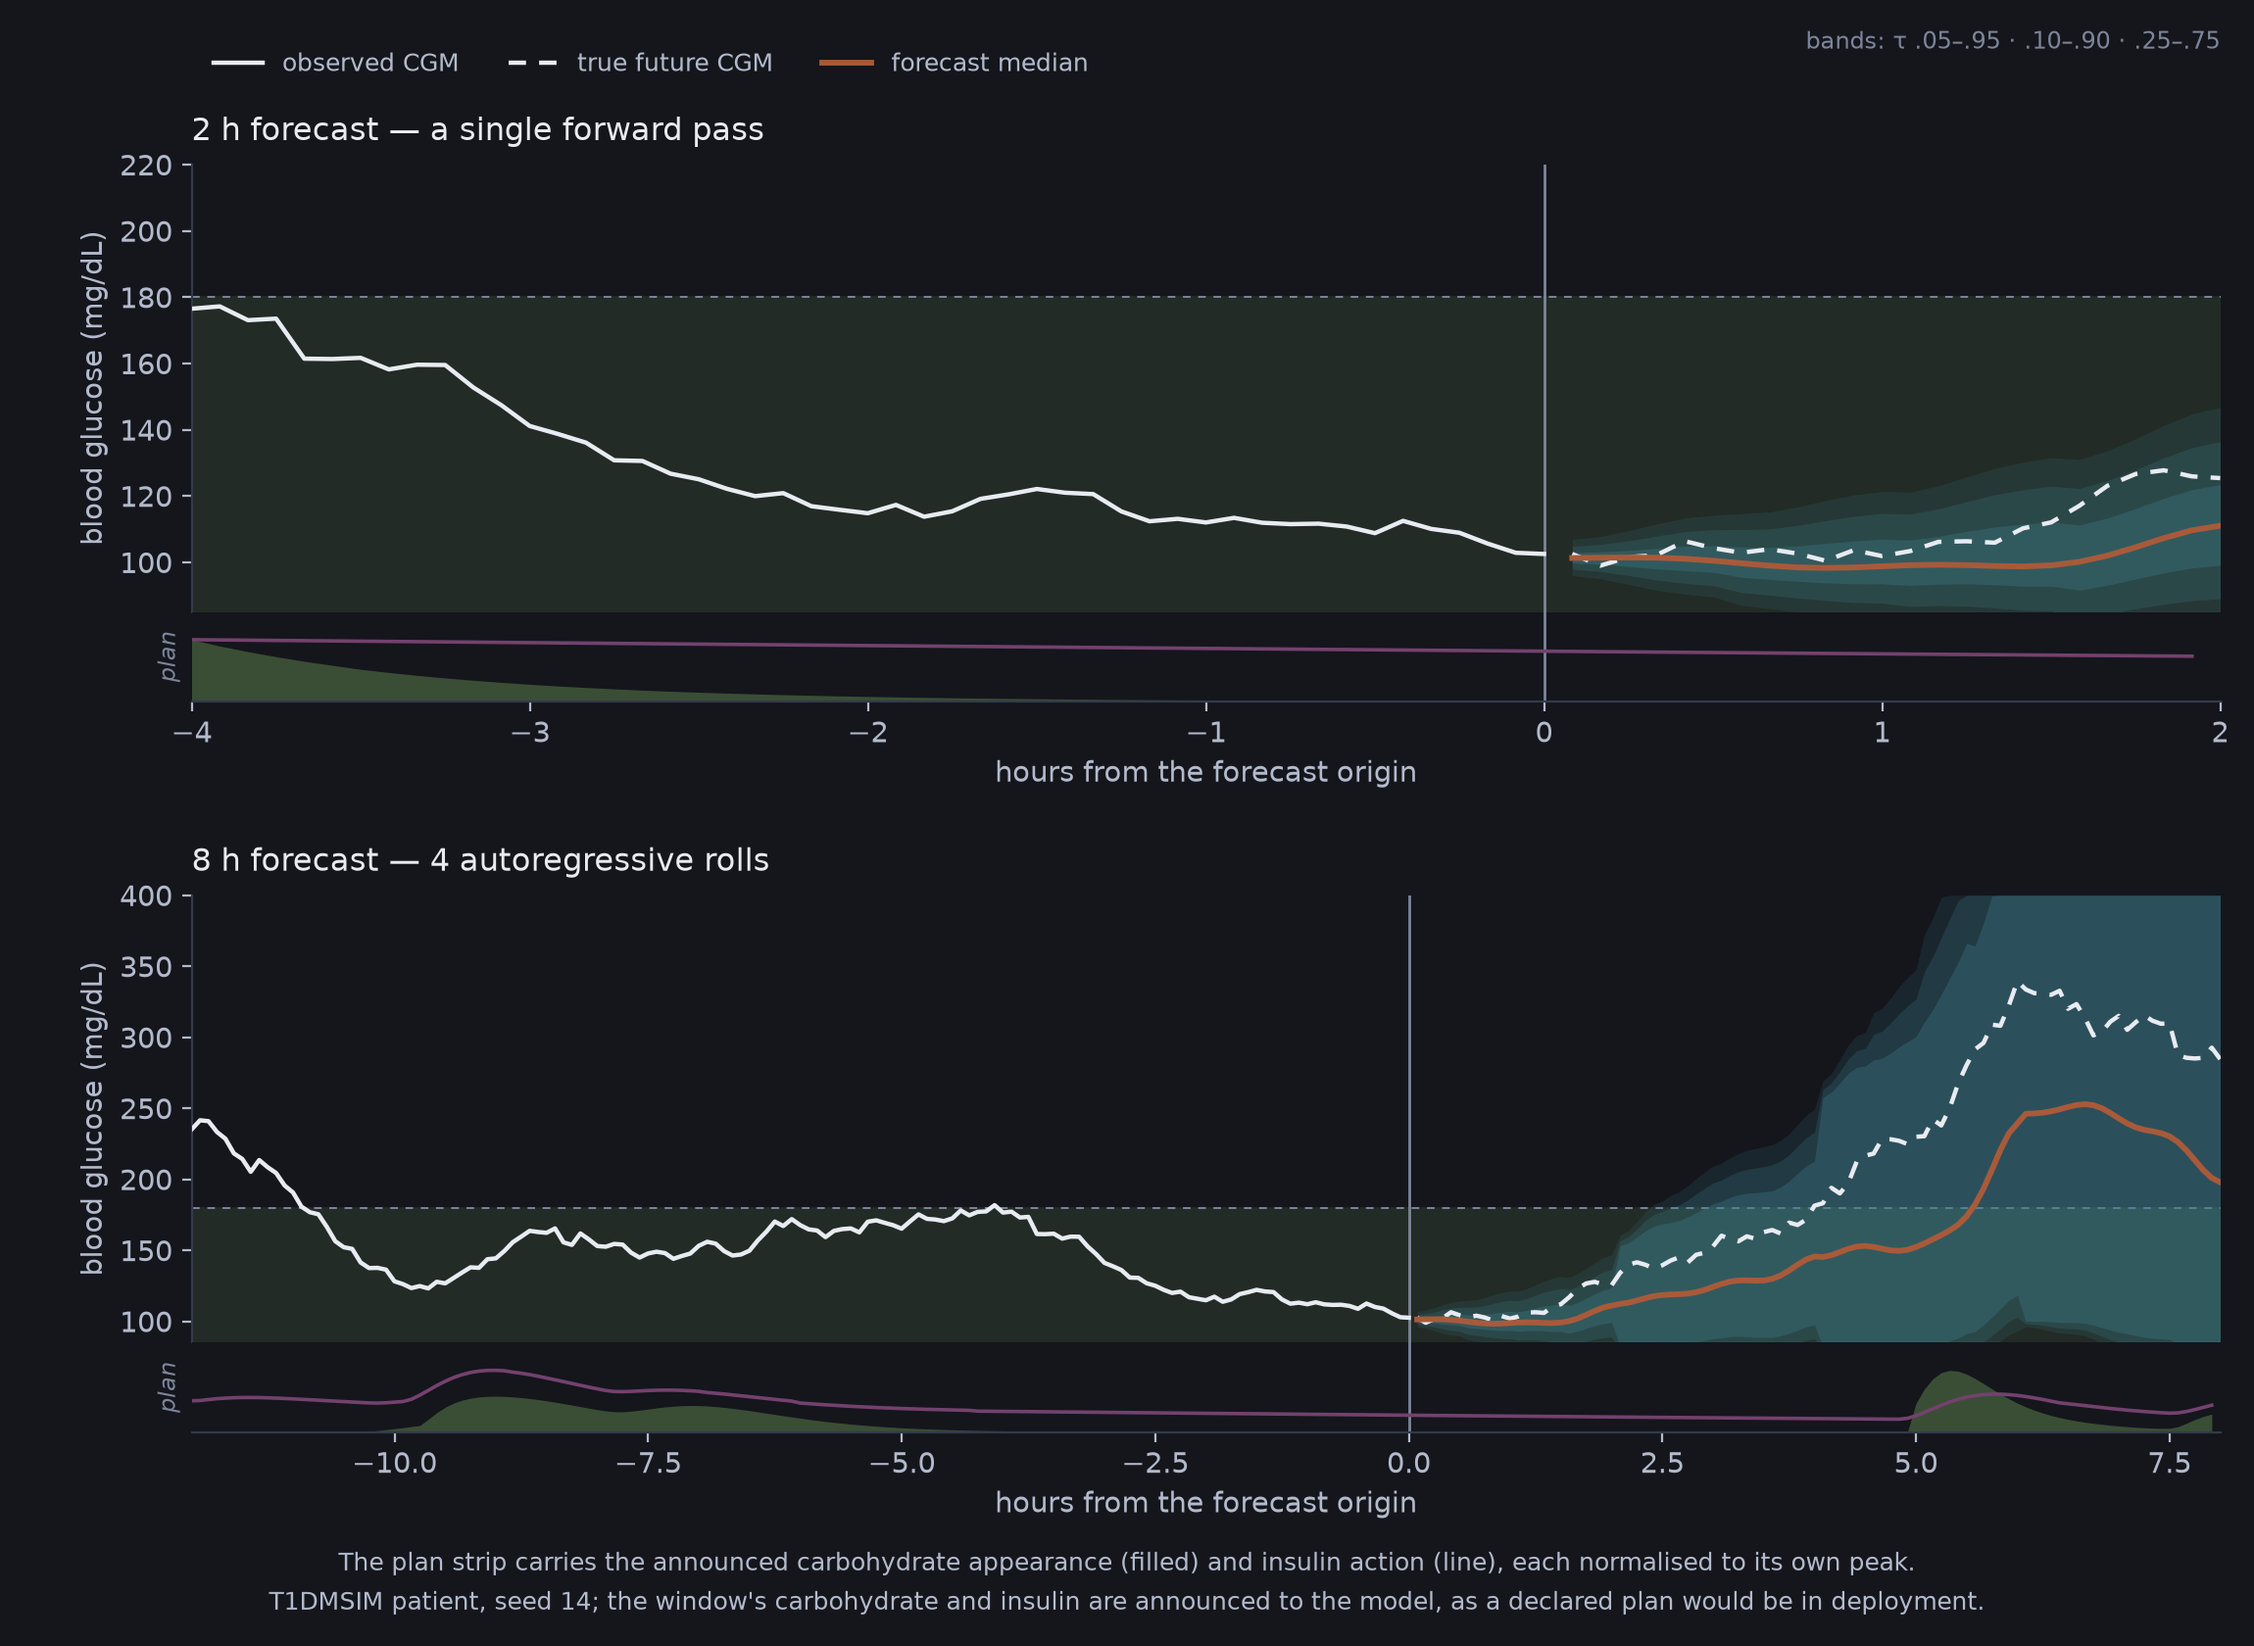
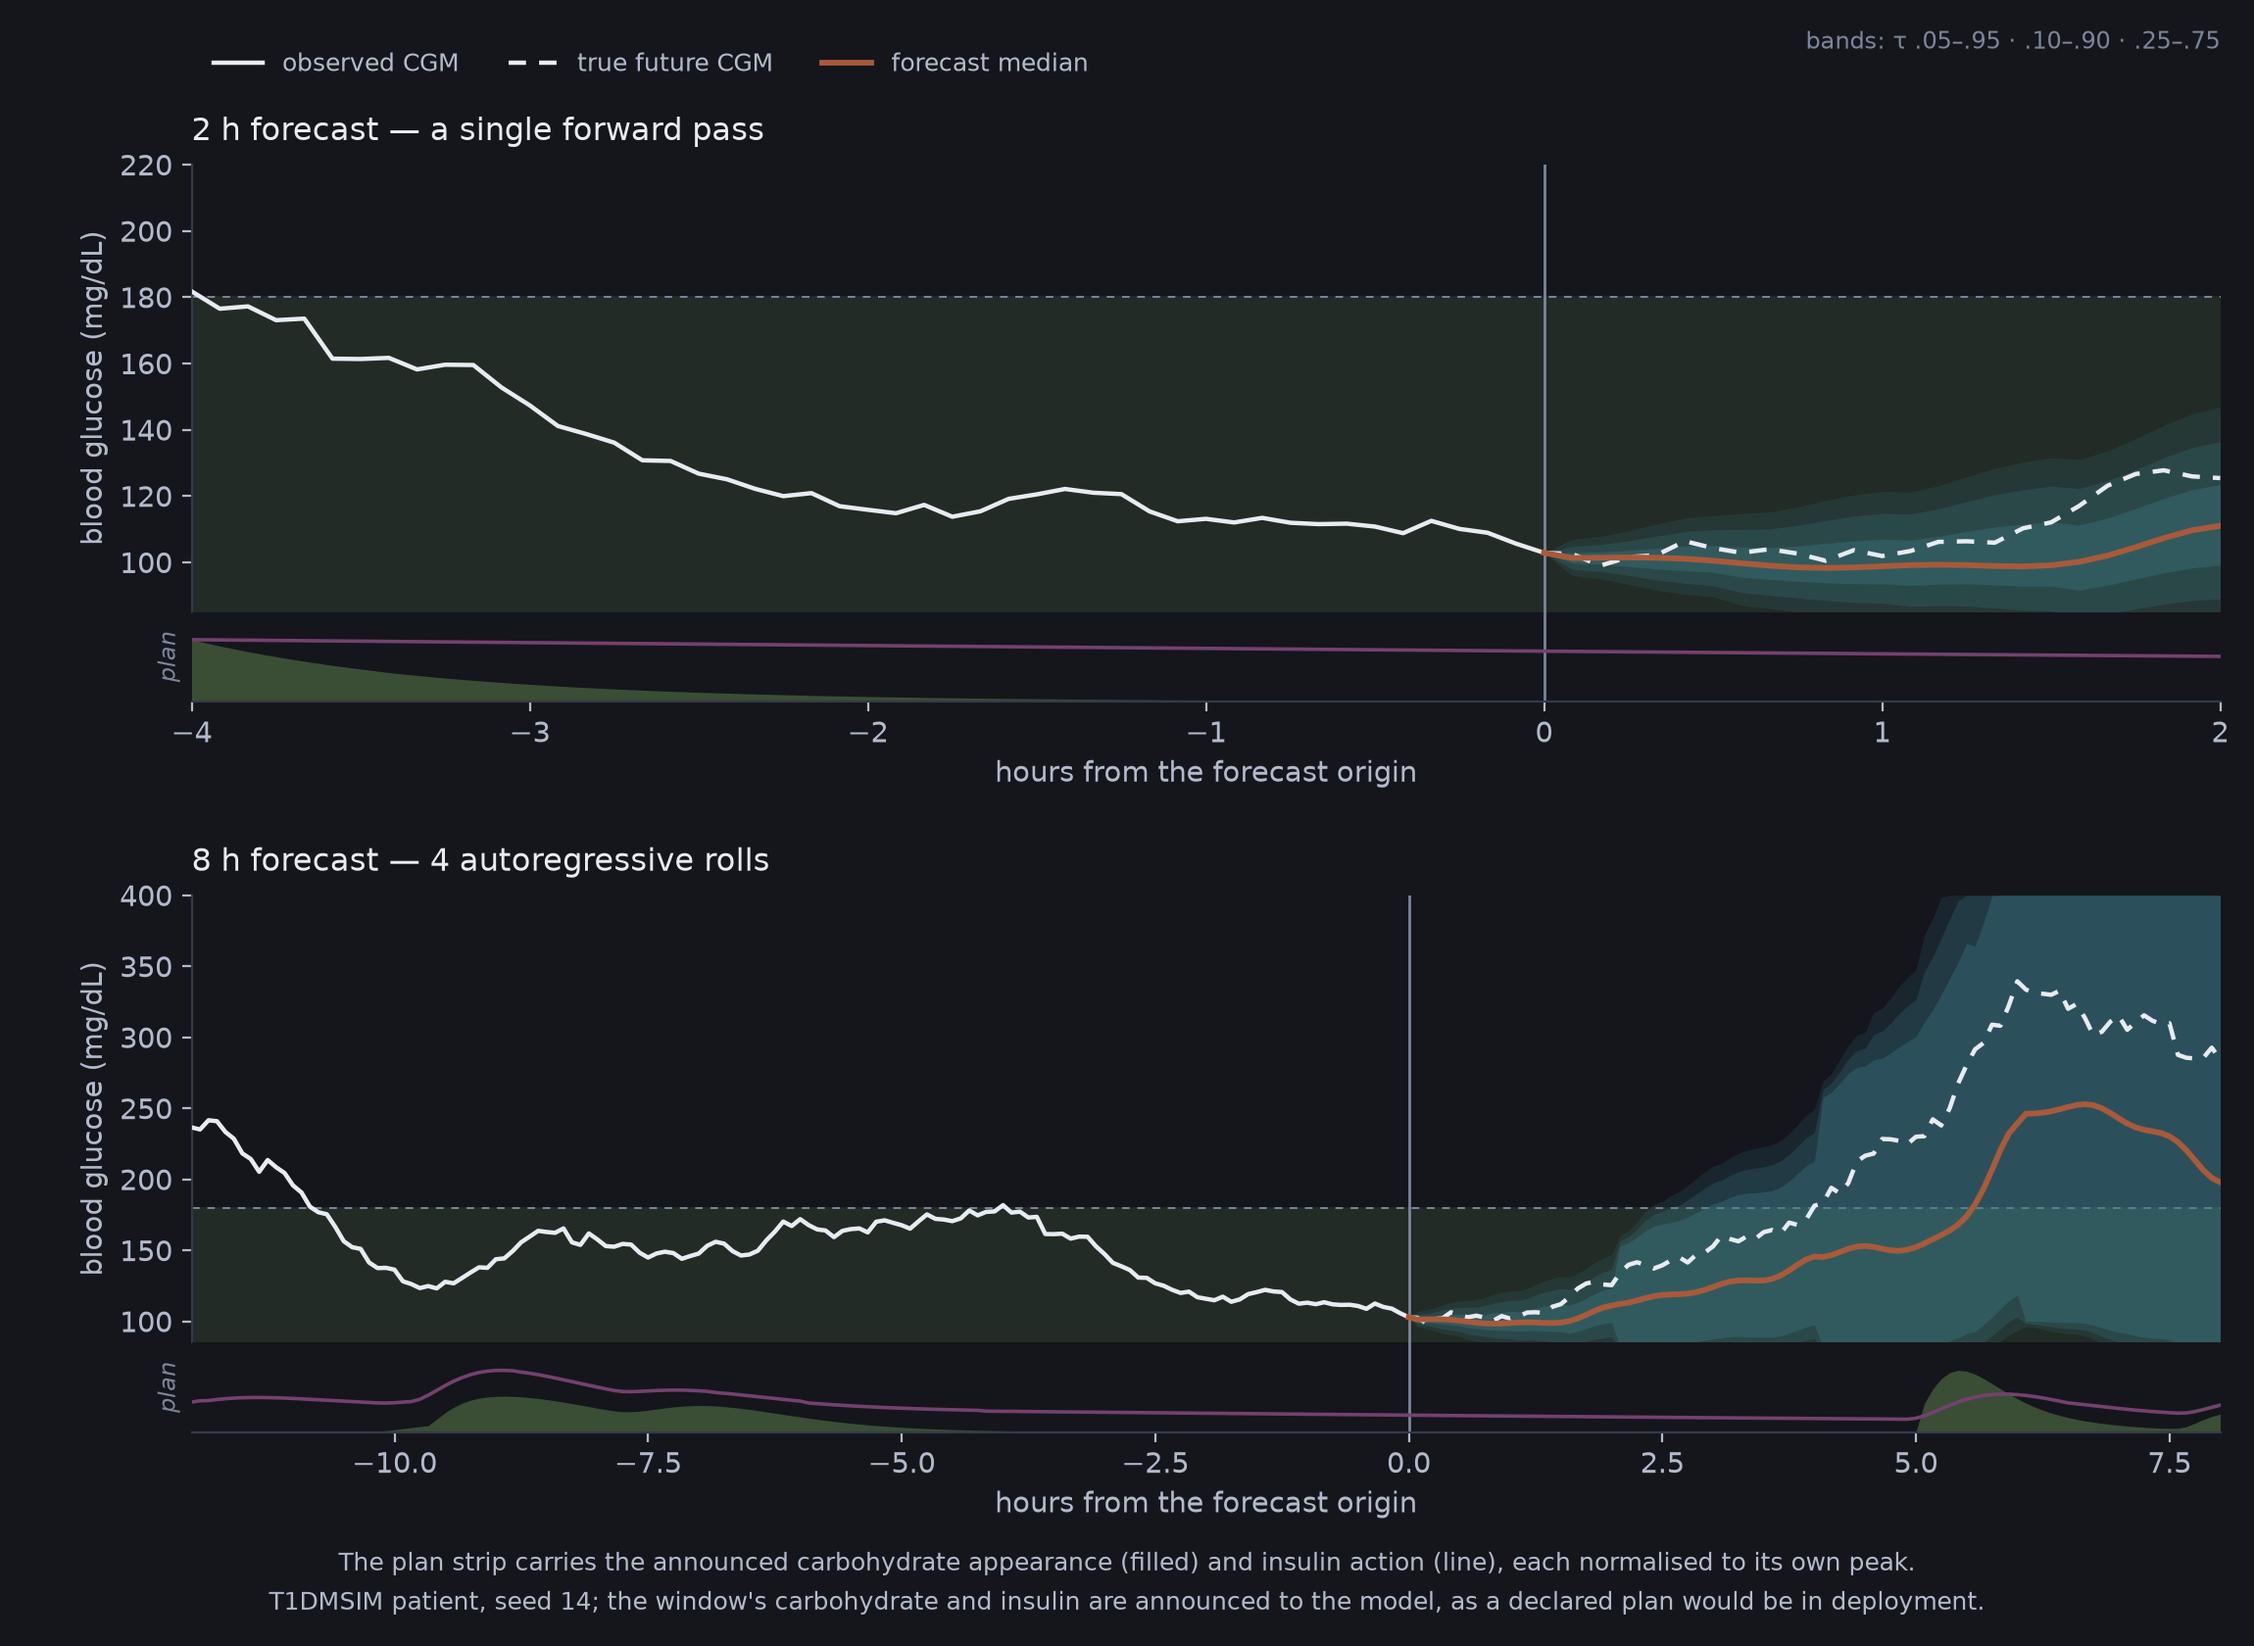
Anchor the README forecast figure's future series at the forecast origin so the observed curve runs into the fan rather than breaking one step short of it.

diff --git a/make_readme_figures.py b/make_readme_figures.py
@@ -482,25 +482,36 @@ def draw_forecast(t: Theme, path: Path, checkpoint: str, seed: int) -> None:
 
     for ax, dx, bands, med, ctx_show, title in panels:
         h = len(med)
+        # t=0 is the forecast origin: the LAST CONTEXT step, index origin-1, whose BG is
+        # the model's own last_bg anchor (data._build_sample takes bg[pred_start-1]).
+        # Prediction step k is index origin+k, at (k+1)*5 min. Each future series is
+        # therefore prepended with the anchor, so it leaves the observed line instead of
+        # starting one step clear of it. For the bands that join is not cosmetic: the
+        # head decodes a delta from last_bg, so the fan has zero width at the origin.
         tc = np.arange(-ctx_show, 1) * 5.0 / 60.0
-        tf = (np.arange(h) + 1) * 5.0 / 60.0
+        tf = np.arange(h + 1) * 5.0 / 60.0
         x0, x1 = tc[0], tf[-1]
+        anchor = bg[origin - 1]
+        ctx_bg = bg[origin - 1 - ctx_show:origin]
+        fut_bg = np.concatenate([[anchor], bg[origin:origin + h]])
+        fut_med = np.concatenate([[anchor], med])
+        fut_bands = np.vstack([np.full((1, bands.shape[1]), anchor), bands])
 
         ax.set_facecolor(t.paper)
         ax.axhspan(70, 180, color=t.fill(t.SAGE), zorder=0)
         ax.axhline(70, color=t.muted, lw=0.7, ls=(0, (4, 4)), zorder=1)
         ax.axhline(180, color=t.muted, lw=0.7, ls=(0, (4, 4)), zorder=1)
         for lo, hi, alpha in ((0, 6, 0.16), (1, 5, 0.24), (2, 4, 0.34)):
-            ax.fill_between(tf, bands[:, lo], bands[:, hi], color=t.TEAL,
+            ax.fill_between(tf, fut_bands[:, lo], fut_bands[:, hi], color=t.TEAL,
                             alpha=alpha, lw=0, zorder=2)
-        ax.plot(tc, bg[origin - ctx_show:origin + 1], color=t.ink, lw=1.6,
+        ax.plot(tc, ctx_bg, color=t.ink, lw=1.6,
                 zorder=5, label="observed CGM")
-        ax.plot(tf, bg[origin:origin + h], color=t.ink, lw=1.6, ls=(0, (4, 3)),
+        ax.plot(tf, fut_bg, color=t.ink, lw=1.6, ls=(0, (4, 3)),
                 zorder=5, label="true future CGM")
-        ax.plot(tf, med, color=t.CLAY, lw=2.1, zorder=6, label="forecast median")
+        ax.plot(tf, fut_med, color=t.CLAY, lw=2.1, zorder=6, label="forecast median")
         ax.axvline(0.0, color=t.muted, lw=1.0, zorder=3)
 
-        seen = np.concatenate([bg[origin - ctx_show:origin + h], bands[:, 5], med])
+        seen = np.concatenate([ctx_bg, fut_bg, fut_bands[:, 5], fut_med])
         top = min(400.0, max(220.0, float(np.nanmax(seen)) * 1.07))
         bot = max(40.0, min(85.0, float(np.nanmin(seen)) * 0.90))
         ax.set_xlim(x0, x1)
@@ -513,8 +524,8 @@ def draw_forecast(t: Theme, path: Path, checkpoint: str, seed: int) -> None:
         ax.spines["bottom"].set_visible(False)
 
         # announced plan, on its own strip
-        sl = slice(origin - ctx_show, origin + h)
-        td = np.arange(-ctx_show, h) * 5.0 / 60.0
+        sl = slice(origin - 1 - ctx_show, origin + h)
+        td = np.arange(-ctx_show, h + 1) * 5.0 / 60.0
         c_max = max(float(carb[sl].max()), 1e-6)
         i_max = max(float(ins[sl].max()), 1e-6)
         dx.set_facecolor(t.paper)
